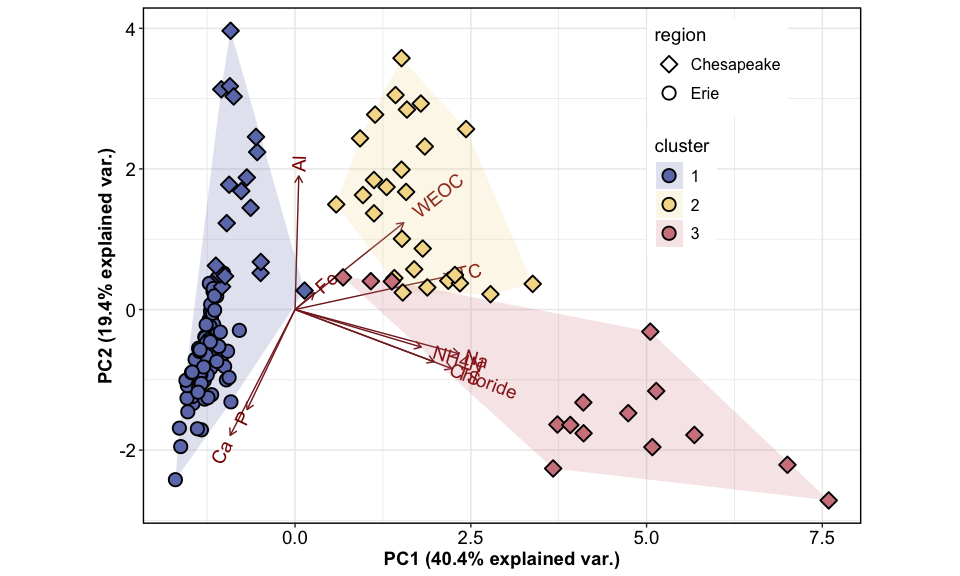
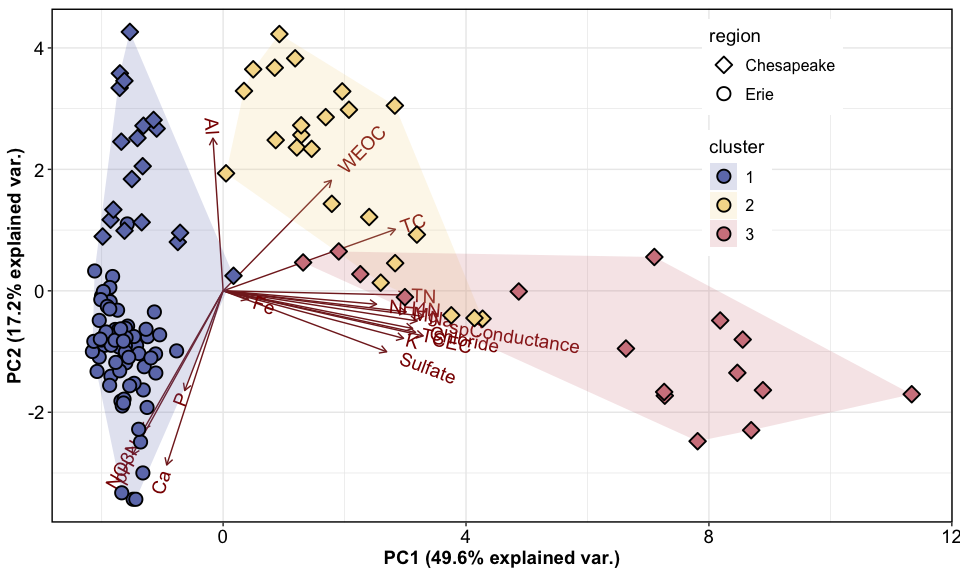
update figures

diff --git a/3-reports/manuscript_figures.md b/3-reports/manuscript_figures.md
@@ -11,8 +11,6 @@ Synpotic Soil Characterization
 
 ![](manuscript_figures_files/figure-gfm/map-1.png)<!-- -->
 
-![](manuscript_figures_files/figure-gfm/map-poster-1.png)<!-- -->
-
 ------------------------------------------------------------------------
 
 ## 0. Correlations
@@ -44,21 +42,15 @@ Click to Open
 
 ### Overall PCAs
 
-![](manuscript_figures_files/figure-gfm/pca_gg-1.png)<!-- -->
+### PCA with clusters
+
+![](manuscript_figures_files/figure-gfm/cluster_pca-1.png)<!-- -->
 
 ![](manuscript_figures_files/figure-gfm/pca_gg_regions-1.png)<!-- -->
 
 ### Drivers and loadings
 
 ![](manuscript_figures_files/figure-gfm/pc_gg-1.png)<!-- -->
-
-### Clustering
-
-![](manuscript_figures_files/figure-gfm/cluster_gg-1.png)<!-- -->
-
-### PCA with clusters
-
-![](manuscript_figures_files/figure-gfm/cluster_pca-1.png)<!-- -->
 
 ------------------------------------------------------------------------
 
@@ -85,10 +77,6 @@ Click to Open
 
 ## 2. Each analyte
 
-### Normalized values - v1
-
-![](manuscript_figures_files/figure-gfm/scaled_gg1-1.png)<!-- -->
-
 ### Normalized values - v2
 
 ![](manuscript_figures_files/figure-gfm/scaled_gg2-1.png)<!-- -->
@@ -105,25 +93,19 @@ Click to Open
 
 ### Overall PCAs
 
-![](manuscript_figures_files/figure-gfm/v2-pca_gg-1.png)<!-- -->
-
-![](manuscript_figures_files/figure-gfm/v2-pca_gg_regions-1.png)<!-- -->
-
-![](manuscript_figures_files/figure-gfm/v2-pca_gg_regions-poster-1.png)<!-- -->![](manuscript_figures_files/figure-gfm/v2-pca_gg_regions-poster-2.png)<!-- -->
-
-### Drivers and loadings
-
-![](manuscript_figures_files/figure-gfm/v2-pc_gg-1.png)<!-- -->
-
-### Clustering
-
-![](manuscript_figures_files/figure-gfm/v2-cluster_gg-1.png)<!-- -->
-
 ### PCA with clusters
 
 ![](manuscript_figures_files/figure-gfm/v2-cluster_pca-1.png)<!-- -->
 
 ------------------------------------------------------------------------
+
+## PCA by region
+
+![](manuscript_figures_files/figure-gfm/v2-pca_gg_regions-1.png)<!-- -->
+
+### Drivers and loadings
+
+![](manuscript_figures_files/figure-gfm/v2-pc_gg-1.png)<!-- -->
 
 ## 1b. PERMANOVA
 
@@ -148,25 +130,15 @@ Click to Open
 
 ## 2. Each analyte
 
-### Normalized values - v1
+### Normalized values
 
-### Normalized values - v2
-
-![](manuscript_figures_files/figure-gfm/v2-scaled_gg2-1.png)<!-- -->
-
-![](manuscript_figures_files/figure-gfm/v2-scaled_gg2_split-1.png)<!-- -->
+### only select analytes
 
 ![](manuscript_figures_files/figure-gfm/v2-scaled_gg2_split-NEW-1.png)<!-- -->
-
-### GWI only
-
-![](manuscript_figures_files/figure-gfm/v2-scaled_gg2_gwi-1.png)<!-- -->
 
 # Specific analytes
 
 ![](manuscript_figures_files/figure-gfm/analytesx-3-1.png)<!-- -->
-
-![](manuscript_figures_files/figure-gfm/analytesx-4-1.png)<!-- -->
 
 ## Chesapeake-only plots for GWI
 
